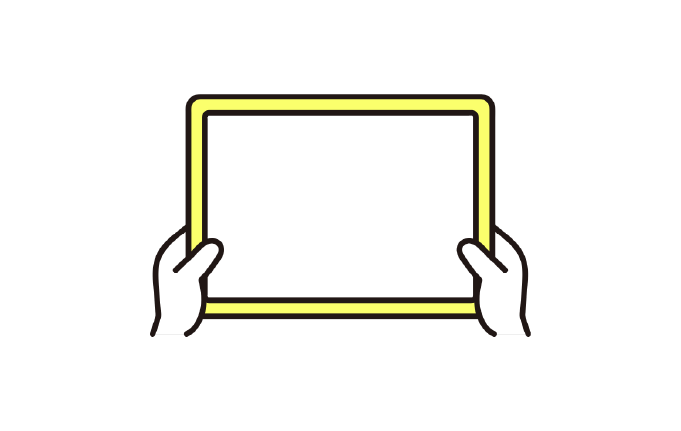
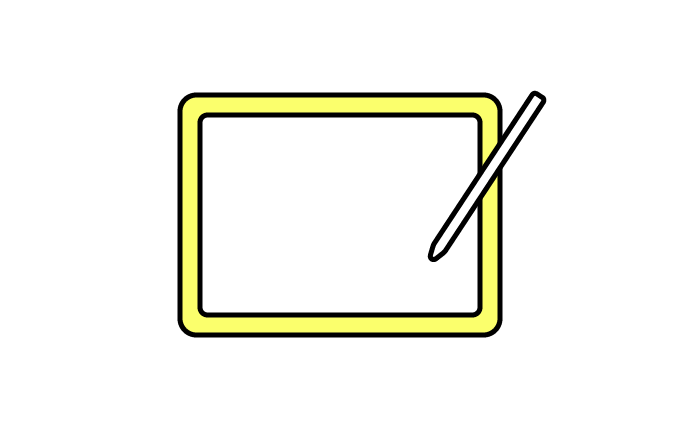
微修正

Changed region(s): [[0.2162, 0.2116, 0.8029, 0.786], [0.7721, 0.7558, 0.8029, 0.786]]

diff --git a/concept.html b/concept.html
@@ -321,7 +321,8 @@
 
         <!-- 以下、SP版 -->
         <div class="portfolioStory--sp">
-            <div class="step__unit">
+            <div class="step__unit" data-aos="fade-up"
+                                    data-aos-duration="1200">
                 <div class="step__heading">
                     <div class="step__number">
                         <p class="step__numberText">STEP#1</p>
@@ -347,7 +348,8 @@
             <div class="arrowDown">
                 <img class="arrowDown__img" src="./images/arrow--down@2x.png" alt="下矢印のイラスト">
             </div>
-            <div class="step__unit">
+            <div class="step__unit" data-aos="fade-up"
+                                    data-aos-duration="1200">
                 <div class="step__heading">
                     <div class="step__number">
                         <p class="step__numberText">STEP#2</p>
@@ -372,7 +374,8 @@
             <div class="arrowDown">
                 <img class="arrowDown__img" src="./images/arrow--down@2x.png" alt="下矢印のイラスト">
             </div>
-            <div class="step__unit">
+            <div class="step__unit" data-aos="fade-up"
+                                    data-aos-duration="1200">
                 <div class="step__heading">
                     <div class="step__number">
                         <p class="step__numberText">STEP#3</p>
@@ -396,7 +399,8 @@
             <div class="arrowDown">
                 <img class="arrowDown__img" src="./images/arrow--down@2x.png" alt="下矢印のイラスト">
             </div>
-            <div class="step__unit">
+            <div class="step__unit" data-aos="fade-up"
+                                    data-aos-duration="1200">
                 <div class="step__heading">
                     <div class="step__number">
                         <p class="step__numberText">STEP#4</p>
@@ -423,7 +427,8 @@
             <div class="arrowDown">
                 <img class="arrowDown__img" src="./images/arrow--down@2x.png" alt="下矢印のイラスト">
             </div>
-            <div class="step__unit">
+            <div class="step__unit" data-aos="fade-up"
+                                    data-aos-duration="1200">
                 <div class="step__heading">
                     <div class="step__number">
                         <p class="step__numberText">STEP#5</p>
@@ -448,7 +453,8 @@
             <div class="arrowDown">
                 <img class="arrowDown__img" src="./images/arrow--down@2x.png" alt="下矢印のイラスト">
             </div>
-            <div class="step__unit">
+            <div class="step__unit" data-aos="fade-up"
+                                    data-aos-duration="1200">
                 <div class="step__heading">
                     <div class="step__number">
                         <p class="step__numberText">STEP#6</p>
@@ -474,7 +480,8 @@
             <div class="arrowDown">
                 <img class="arrowDown__img" src="./images/arrow--down@2x.png" alt="下矢印のイラスト">
             </div>
-            <div class="step__unit">
+            <div class="step__unit" data-aos="fade-up"
+                                    data-aos-duration="1200">
             <div class="step__heading">
                 <div class="step__number">
                     <p class="step__numberText">STEP#7</p>

diff --git a/js/script.js b/js/script.js
@@ -65,12 +65,12 @@ $(function () {
         //コンセプト内容のフェードインが完了するまでのスクロール位置
         const fadeInEnd__sp = 1000;
         // ポケットの拡大が画面幅いっぱいまで完了するスクロール位置
-        const maxExpandEnd__sp = 2000;
+        const maxExpandEnd__sp = 1600;
         // const maxExpandEnd = 2200;
         // ポケットが画面いっぱいまで拡大する速度の調整用
-        const maxExpandSpeedPocket__sp = 140;
+        const maxExpandSpeedPocket__sp = 70;
         // コンセプトの内容が上がっていく速度の調整用
-        const speedConcept__sp = 0.60;
+        const speedConcept__sp = 1.10;
 
         // ★scroll位置からポケットのscaleを毎回一意に決める関数★
         function getPocketScale(scroll) {

diff --git a/css/about.css b/css/about.css
@@ -78,7 +78,8 @@
     }
 
     .profile__text {
-        width: 300px;
+        /* width: 300px; */
+        width: fit-content;
     }
 
     .profile__image {
